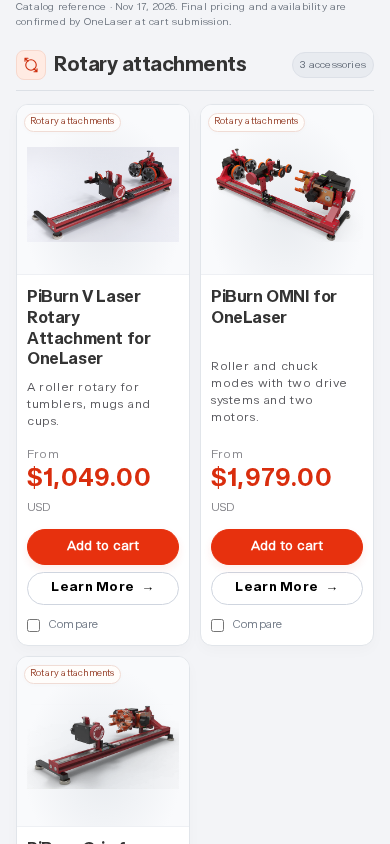
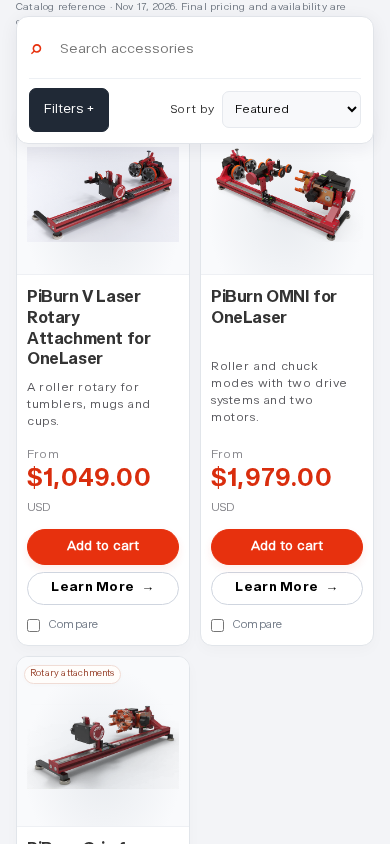
Keep accessory filters sticky within the catalog and accessible on mobile

diff --git a/accessories.html b/accessories.html
@@ -2,7 +2,7 @@
 <a class="skip" href="#machine-picker">Skip to machine selection</a><iframe class="site-chrome" data-site-shell="header" title="OneLaser website navigation" src="preview/site-header.html" scrolling="no"></iframe>
 <main>
 <section class="machine-section" id="machine-picker"><div class="wrap"><div class="section-head"><div><p class="eyebrow">ONELASER ACCESSORIES</p><h1>Your machine. <span>Your next upgrade.</span></h1><p class="picker-intro">Choose your OneLaser to explore its accessories.</p></div></div><div id="machines" class="machines" role="group" aria-label="Choose your machine"></div></div></section>
-<section class="catalog-section" id="catalog"><div class="wrap"><div class="section-head"><div><p class="eyebrow">BUILD YOUR POSSIBILITIES</p><h2 id="catalog-title">Accessories for your machine</h2></div><button id="change-machine" class="text-link">Change machine ↑</button></div><nav id="category-nav" class="category-nav" aria-label="Accessory categories"></nav><div class="toolbar"><label class="search"><span aria-hidden="true">⌕</span><input id="search" type="search" placeholder="Search accessories" aria-label="Search accessories"></label><button class="mobile-filter" id="filter-toggle" aria-expanded="false" aria-controls="filters">Filters +</button><label class="sort">Sort by <select id="sort"><option value="featured">Featured</option><option value="price-asc">Price: low to high</option><option value="price-desc">Price: high to low</option><option value="name">Name: A–Z</option></select></label></div><div class="catalog-layout"><aside id="filters"><div class="filter-heading"><strong>Refine your setup</strong><button data-reset>Reset</button></div><label class="filter-label" for="machine-select">Your machine</label><select id="machine-select"><option value="">All machines</option></select><fieldset><legend>Accessory type</legend><div id="categories"></div></fieldset><fieldset><legend>Price (USD)</legend><label for="max-price">Maximum price</label><input id="max-price" type="number" min="0" step="1" placeholder="No limit"><p class="fine" id="price-error" role="status"></p></fieldset><div class="help-card"><span>LET’S GET IT RIGHT</span><h3>Need a second opinion?</h3><p>Our team can help confirm the right part for your setup.</p><a href="https://www.1laser.com/products/sales-consultation-call#book" data-ol-booking data-product-handle="sales-consultation-call" data-loading="Opening appointment calendar…" data-error="The calendar could not load. Open the booking page to choose your time." data-fallback-label="Open booking page" data-close-label="Close appointment calendar" class="booking-cta" aria-label="Schedule a Sales Call" aria-haspopup="dialog"><svg width="18" height="18" viewBox="0 0 24 24" fill="none" stroke="currentColor" stroke-width="1.7" stroke-linecap="round" stroke-linejoin="round" aria-hidden="true"><rect x="3" y="5" width="18" height="16" rx="3"/><path d="M7 3v4m10-4v4M3 10h18m-13 5 3 3 5-5"/></svg><span class="booking-copy">Schedule a Sales Call</span></a></div></aside><div><div class="results-line"><p id="count" role="status" aria-live="polite"></p><button data-reset>Clear all filters</button></div><div id="chips" class="chips"></div><p class="snapshot-note">Catalog reference · Nov 17, 2026. Final pricing and availability are confirmed by OneLaser at cart submission.</p><div id="products" class="product-grid"></div><div id="empty" hidden><h3>No accessories match this setup.</h3><p>Try another category or remove a filter.</p><button class="button primary" data-reset>Reset filters</button></div><noscript><p>Enable JavaScript to filter this collection, or <a href="https://www.1laser.com/collections/laser-accessories">browse all accessories on OneLaser</a>.</p></noscript></div></div></div></section>
+<section class="catalog-section" id="catalog"><div class="wrap"><div class="section-head"><div><p class="eyebrow">BUILD YOUR POSSIBILITIES</p><h2 id="catalog-title">Accessories for your machine</h2></div><button id="change-machine" class="text-link">Change machine ↑</button></div><nav id="category-nav" class="category-nav" aria-label="Accessory categories"></nav><div class="toolbar"><label class="search"><span aria-hidden="true">⌕</span><input id="search" type="search" placeholder="Search accessories" aria-label="Search accessories"></label><button class="mobile-filter" id="filter-toggle" aria-expanded="false" aria-controls="filters">Filters +</button><label class="sort">Sort by <select id="sort"><option value="featured">Featured</option><option value="price-asc">Price: low to high</option><option value="price-desc">Price: high to low</option><option value="name">Name: A–Z</option></select></label></div><div class="catalog-layout"><aside id="filters" tabindex="0" aria-label="Accessory filters"><div class="filter-heading"><strong>Refine your setup</strong><button data-reset>Reset</button></div><label class="filter-label" for="machine-select">Your machine</label><select id="machine-select"><option value="">All machines</option></select><fieldset><legend>Accessory type</legend><div id="categories"></div></fieldset><fieldset><legend>Price (USD)</legend><label for="max-price">Maximum price</label><input id="max-price" type="number" min="0" step="1" placeholder="No limit"><p class="fine" id="price-error" role="status"></p></fieldset><div class="help-card"><span>LET’S GET IT RIGHT</span><h3>Need a second opinion?</h3><p>Our team can help confirm the right part for your setup.</p><a href="https://www.1laser.com/products/sales-consultation-call#book" data-ol-booking data-product-handle="sales-consultation-call" data-loading="Opening appointment calendar…" data-error="The calendar could not load. Open the booking page to choose your time." data-fallback-label="Open booking page" data-close-label="Close appointment calendar" class="booking-cta" aria-label="Schedule a Sales Call" aria-haspopup="dialog"><svg width="18" height="18" viewBox="0 0 24 24" fill="none" stroke="currentColor" stroke-width="1.7" stroke-linecap="round" stroke-linejoin="round" aria-hidden="true"><rect x="3" y="5" width="18" height="16" rx="3"/><path d="M7 3v4m10-4v4M3 10h18m-13 5 3 3 5-5"/></svg><span class="booking-copy">Schedule a Sales Call</span></a></div></aside><div><div class="results-line"><p id="count" role="status" aria-live="polite"></p><button data-reset>Clear all filters</button></div><div id="chips" class="chips"></div><p class="snapshot-note">Catalog reference · Nov 17, 2026. Final pricing and availability are confirmed by OneLaser at cart submission.</p><div id="products" class="product-grid"></div><div id="empty" hidden><h3>No accessories match this setup.</h3><p>Try another category or remove a filter.</p><button class="button primary" data-reset>Reset filters</button></div><noscript><p>Enable JavaScript to filter this collection, or <a href="https://www.1laser.com/collections/laser-accessories">browse all accessories on OneLaser</a>.</p></noscript></div></div></div></section>
 <section class="wrap guidance" aria-labelledby="accessories-faq-title"><div><p class="eyebrow">ACCESSORY ESSENTIALS</p><h2 id="accessories-faq-title">Frequently asked questions.</h2></div><div class="faqs"><details name="accessories-faq"><summary>What’s the best rotary attachment for tumblers?</summary><div class="faq-answer"><p>We recommend the PiBurn Rotary, which offers excellent stability, grip, and ease of use for drinkware engraving.</p></div></details><details name="accessories-faq"><summary>Do I need a chiller for my laser machine?</summary><div class="faq-answer"><p>If you’re using a high-wattage system like Hydra, a chiller is essential for keeping your machine cool and running efficiently.</p></div></details><details name="accessories-faq"><summary>How do I know which lens to use?</summary><div class="faq-answer"><p>A 2" focal lens works for most jobs. Use a longer lens (3"–4") for deeper cuts and a shorter lens (1.5") for fine engraving.</p></div></details><details name="accessories-faq"><summary>Can I upgrade my machine’s height for tall items?</summary><div class="faq-answer"><p>Yes! The Base Boost Riser gives you more vertical space and enables passthrough for longer items.</p></div></details><details name="accessories-faq"><summary>Is the conveyor feeder necessary?</summary><div class="faq-answer"><p>It’s a huge time-saver for businesses that handle repeat jobs or fabric, leather, and signage material.</p></div></details><details name="accessories-faq"><summary>How can I finance my laser machine?</summary><div class="faq-answer"><p>We offer financing through Shop Pay, ClickLease and more—making it easier to start or grow your business.</p></div></details></div></section>
 <section class="expert"><div class="wrap"><div><p class="eyebrow">ENGINEERS ON YOUR SIDE</p><h2>Let’s complete your setup.</h2><p>Tell us your machine and what you want to make.</p></div><a class="button" href="https://www.1laser.com/pages/contact-us">Talk to an expert →</a></div></section></main><iframe class="site-chrome" data-site-shell="footer" title="OneLaser website footer" src="preview/site-footer.html" scrolling="no"></iframe>
 <div class="compare-tray" id="compare-tray" hidden><span id="compare-count" role="status"></span><button id="open-compare" class="button primary">Compare accessories →</button><button id="clear-compare">Clear</button></div><dialog id="compare-dialog" aria-labelledby="compare-title"><div class="dialog-head"><h2 id="compare-title">Find your next upgrade</h2><button id="close-compare" aria-label="Close comparison">✕</button></div><div class="table-scroll"><table id="compare-table"></table></div><p class="fine">Comparison is a guide. Confirm exact configuration and current pricing on the product page.</p></dialog><dialog id="variant-dialog" aria-labelledby="variant-title"><div class="dialog-head"><h2 id="variant-title">Choose your configuration</h2><button type="button" id="close-variant" aria-label="Close configuration">✕</button></div><h3 id="variant-product"></h3><p id="variant-note" class="fine"></p><form id="variant-form" method="post" action="https://www.1laser.com/cart/add"><label for="variant-select">Configuration</label><select id="variant-select" name="id" required><option value="">Select a configuration</option></select><label for="cart-quantity">Quantity</label><input id="cart-quantity" name="quantity" type="number" min="1" max="99" value="1" required><input name="return_to" type="hidden" value="/cart"><p id="variant-price" role="status"></p><p class="fine">Confirm your machine, connector and required accessories before adding. You’ll continue to your OneLaser cart.</p><button class="button primary" type="submit">Add to cart →</button><a id="variant-learn" class="text-link">Learn More</a></form></dialog></body></html>

diff --git a/assets/accessories.js b/assets/accessories.js
@@ -46,7 +46,28 @@ $('#search').addEventListener('input',e=>{state.q=e.target.value;update();});$('
 $('#max-price').addEventListener('input',e=>{if(e.target.validity.badInput||Number(e.target.value)<0){$('#price-error').textContent='Enter a price of 0 or more.';return;}$('#price-error').textContent='';state.max=e.target.value;update();});
 $('#products').addEventListener('change',e=>{if(!e.target.matches('[data-compare]'))return;const i=Number(e.target.dataset.compare);if(e.target.checked&&selected.size<3)selected.add(i);else selected.delete(i);render();});
 $('#clear-compare').addEventListener('click',()=>{selected.clear();render();});
-$('#filter-toggle').addEventListener('click',()=>{const open=$('#filters').classList.toggle('open');$('#filter-toggle').setAttribute('aria-expanded',String(open));$('#filter-toggle').textContent=open?'Close filters −':'Filters +';});
+const catalog=$('#catalog'),filters=$('#filters'),toolbar=$('.toolbar');
+function closeFilters(){filters.classList.remove('open');$('#filter-toggle').setAttribute('aria-expanded','false');$('#filter-toggle').textContent='Filters +';}
+function updateStickyLayout(){
+ let top=16;
+ for(const header of document.getElementsByClassName('shopify-section-group-header-group')){
+  const style=getComputedStyle(header),rect=header.getBoundingClientRect();
+  if((style.position==='sticky'||style.position==='fixed')&&rect.bottom>0&&rect.top<=16&&rect.bottom<innerHeight-80)top=Math.max(top,Math.ceil(rect.bottom)+12);
+ }
+ catalog.style.setProperty('--ac-sticky-top',top+'px');
+ const mobile=matchMedia('(max-width:650px)').matches;
+ if(mobile){catalog.style.setProperty('--ac-mobile-filter-top',Math.max(top,Math.ceil(toolbar.getBoundingClientRect().bottom))+8+'px');if(catalog.getBoundingClientRect().bottom<=top+toolbar.offsetHeight)closeFilters();}
+ else if(filters.classList.contains('open'))closeFilters();
+}
+let stickyFrame=0;
+function queueStickyLayout(){if(!stickyFrame)stickyFrame=requestAnimationFrame(()=>{stickyFrame=0;updateStickyLayout();});}
+window.addEventListener('scroll',queueStickyLayout,{passive:true});window.addEventListener('resize',queueStickyLayout);window.addEventListener('pageshow',queueStickyLayout);
+new ResizeObserver(queueStickyLayout).observe(toolbar);
+for(const header of document.getElementsByClassName('shopify-section-group-header-group')){new ResizeObserver(queueStickyLayout).observe(header);header.addEventListener('transitionend',queueStickyLayout);}
+updateStickyLayout();
+$('#filter-toggle').addEventListener('click',()=>{updateStickyLayout();const open=filters.classList.toggle('open');$('#filter-toggle').setAttribute('aria-expanded',String(open));$('#filter-toggle').textContent=open?'Close filters −':'Filters +';});
+document.addEventListener('keydown',e=>{if(e.key==='Escape'&&filters.classList.contains('open')){closeFilters();$('#filter-toggle').focus();}});
+document.addEventListener('click',e=>{if(matchMedia('(max-width:650px)').matches&&filters.classList.contains('open')&&!filters.contains(e.target)&&!$('#filter-toggle').contains(e.target))closeFilters();});
 $('#open-compare').addEventListener('click',()=>{const ps=[...selected].map(i=>products[i]);const rows=[['Purpose',p=>escape(p.category)],['Price (USD)',p=>money(p.price)],['Machine family candidates',p=>escape(p.machines.join(', ')||'Confirm with OneLaser')],['What it does',p=>escape(p.description)],['Before you order',p=>escape(p.note)],['Next step',p=>`<a class="text-link" href="${escape(p.url)}">Check product details →</a>`]];$('#compare-table').innerHTML=`<caption class="fine">Compare ${ps.length} selected accessories</caption><thead><tr><th scope="col">Accessory</th>${ps.map(p=>`<th scope="col"><img src="${escape(p.image)}" alt="" width="110" height="90"><br>${escape(p.title)}</th>`).join('')}</tr></thead><tbody>${rows.map(([title,fn])=>`<tr class="${title==='Price (USD)'?'compare-price-row':''}"><th scope="row">${title}</th>${ps.map(p=>`<td>${fn(p)}</td>`).join('')}</tr>`).join('')}</tbody>`;$('#compare-dialog').showModal();});
 $('#change-machine').addEventListener('click',()=>{$('#machine-picker').scrollIntoView();$('#machines button').focus({preventScroll:true});});
 $('#close-variant').addEventListener('click',()=>$('#variant-dialog').close());

diff --git a/assets/ac-theme.js b/assets/ac-theme.js
@@ -47,7 +47,28 @@ $('#search').addEventListener('input',e=>{state.q=e.target.value;update();});$('
 $('#max-price').addEventListener('input',e=>{if(e.target.validity.badInput||Number(e.target.value)<0){$('#price-error').textContent='Enter a price of 0 or more.';return;}$('#price-error').textContent='';state.max=e.target.value;update();});
 $('#products').addEventListener('change',e=>{if(!e.target.matches('[data-compare]'))return;const i=Number(e.target.dataset.compare);if(e.target.checked&&selected.size<3)selected.add(i);else selected.delete(i);render();});
 $('#clear-compare').addEventListener('click',()=>{selected.clear();render();});
-$('#filter-toggle').addEventListener('click',()=>{const open=$('#filters').classList.toggle('open');$('#filter-toggle').setAttribute('aria-expanded',String(open));$('#filter-toggle').textContent=open?'Close filters −':'Filters +';});
+const catalog=$('#catalog'),filters=$('#filters'),toolbar=$('.toolbar');
+function closeFilters(){filters.classList.remove('open');$('#filter-toggle').setAttribute('aria-expanded','false');$('#filter-toggle').textContent='Filters +';}
+function updateStickyLayout(){
+ let top=16;
+ for(const header of document.getElementsByClassName('shopify-section-group-header-group')){
+  const style=getComputedStyle(header),rect=header.getBoundingClientRect();
+  if((style.position==='sticky'||style.position==='fixed')&&rect.bottom>0&&rect.top<=16&&rect.bottom<innerHeight-80)top=Math.max(top,Math.ceil(rect.bottom)+12);
+ }
+ catalog.style.setProperty('--ac-sticky-top',top+'px');
+ const mobile=matchMedia('(max-width:650px)').matches;
+ if(mobile){catalog.style.setProperty('--ac-mobile-filter-top',Math.max(top,Math.ceil(toolbar.getBoundingClientRect().bottom))+8+'px');if(catalog.getBoundingClientRect().bottom<=top+toolbar.offsetHeight)closeFilters();}
+ else if(filters.classList.contains('open'))closeFilters();
+}
+let stickyFrame=0;
+function queueStickyLayout(){if(!stickyFrame)stickyFrame=requestAnimationFrame(()=>{stickyFrame=0;updateStickyLayout();});}
+window.addEventListener('scroll',queueStickyLayout,{passive:true});window.addEventListener('resize',queueStickyLayout);window.addEventListener('pageshow',queueStickyLayout);
+new ResizeObserver(queueStickyLayout).observe(toolbar);
+for(const header of document.getElementsByClassName('shopify-section-group-header-group')){new ResizeObserver(queueStickyLayout).observe(header);header.addEventListener('transitionend',queueStickyLayout);}
+updateStickyLayout();
+$('#filter-toggle').addEventListener('click',()=>{updateStickyLayout();const open=filters.classList.toggle('open');$('#filter-toggle').setAttribute('aria-expanded',String(open));$('#filter-toggle').textContent=open?'Close filters −':'Filters +';});
+root.addEventListener('keydown',e=>{if(e.key==='Escape'&&filters.classList.contains('open')){closeFilters();$('#filter-toggle').focus();}});
+root.addEventListener('click',e=>{if(matchMedia('(max-width:650px)').matches&&filters.classList.contains('open')&&!filters.contains(e.target)&&!$('#filter-toggle').contains(e.target))closeFilters();});
 $('#open-compare').addEventListener('click',()=>{const ps=[...selected].map(i=>products[i]);const rows=[['Purpose',p=>escape(p.category)],['Price (USD)',p=>money(p.price)],['Machine family candidates',p=>escape(p.machines.join(', ')||'Confirm with OneLaser')],['What it does',p=>escape(p.description)],['Before you order',p=>escape(p.note)],['Next step',p=>`<a class="text-link" href="${escape(p.url)}">Check product details →</a>`]];$('#compare-table').innerHTML=`<caption class="fine">Compare ${ps.length} selected accessories</caption><thead><tr><th scope="col">Accessory</th>${ps.map(p=>`<th scope="col"><img src="${escape(p.image)}" alt="" width="110" height="90"><br>${escape(p.title)}</th>`).join('')}</tr></thead><tbody>${rows.map(([title,fn])=>`<tr class="${title==='Price (USD)'?'compare-price-row':''}"><th scope="row">${title}</th>${ps.map(p=>`<td>${fn(p)}</td>`).join('')}</tr>`).join('')}</tbody>`;$('#compare-dialog').showModal();});
 $('#change-machine').addEventListener('click',()=>{$('#machine-picker').scrollIntoView();$('#machines button').focus({preventScroll:true});});
 $('#close-variant').addEventListener('click',()=>$('#variant-dialog').close());

diff --git a/assets/ac-theme.css b/assets/ac-theme.css
@@ -23,6 +23,7 @@
 .category-heading>.category-icon{color:#cd2d0c;font-size:inherit}
 
 .product-bottom{margin-top:auto;padding-top:4px}
+.catalog-section{--ac-sticky-top:16px;--ac-mobile-filter-top:150px}.catalog-layout{position:relative;align-items:start}#filters{position:sticky;top:var(--ac-sticky-top);max-height:calc(100vh - var(--ac-sticky-top) - 16px);max-height:calc(100dvh - var(--ac-sticky-top) - 16px);overflow-y:auto;overscroll-behavior-y:contain;scrollbar-width:thin;scrollbar-color:#c7ccd4 transparent;scrollbar-gutter:stable;z-index:2}@media(max-width:650px){.catalog-section .toolbar{position:sticky;top:var(--ac-sticky-top);z-index:7;box-shadow:0 4px 18px #17223512}#filters{position:static;max-height:none;overflow:visible;scrollbar-gutter:auto}#filters.open{position:fixed;top:var(--ac-mobile-filter-top);left:16px;right:16px;width:auto;max-height:calc(100vh - var(--ac-mobile-filter-top) - 16px);max-height:calc(100dvh - var(--ac-mobile-filter-top) - 16px);overflow-y:auto;overscroll-behavior-y:contain;scrollbar-gutter:stable;z-index:8;box-shadow:0 12px 38px #17223530}}
 
 @font-face{font-family:Certia;src:url('certia-regular.woff2') format('woff2');font-weight:400;font-style:normal;font-display:swap}
 @font-face{font-family:Certia-Bold;src:url('certia-bold.woff2') format('woff2');font-weight:400;font-style:normal;font-display:swap}

diff --git a/assets/accessories-brand.css b/assets/accessories-brand.css
@@ -12,3 +12,4 @@ body{background:#fff}.announcement{background:var(--night);font-size:11px;paddin
 .category-heading>.category-icon{color:#cd2d0c;font-size:inherit}
 
 .product-bottom{margin-top:auto;padding-top:4px}
+.catalog-section{--ac-sticky-top:16px;--ac-mobile-filter-top:150px}.catalog-layout{position:relative;align-items:start}#filters{position:sticky;top:var(--ac-sticky-top);max-height:calc(100vh - var(--ac-sticky-top) - 16px);max-height:calc(100dvh - var(--ac-sticky-top) - 16px);overflow-y:auto;overscroll-behavior-y:contain;scrollbar-width:thin;scrollbar-color:#c7ccd4 transparent;scrollbar-gutter:stable;z-index:2}@media(max-width:650px){.catalog-section .toolbar{position:sticky;top:var(--ac-sticky-top);z-index:7;box-shadow:0 4px 18px #17223512}#filters{position:static;max-height:none;overflow:visible;scrollbar-gutter:auto}#filters.open{position:fixed;top:var(--ac-mobile-filter-top);left:16px;right:16px;width:auto;max-height:calc(100vh - var(--ac-mobile-filter-top) - 16px);max-height:calc(100dvh - var(--ac-mobile-filter-top) - 16px);overflow-y:auto;overscroll-behavior-y:contain;scrollbar-gutter:stable;z-index:8;box-shadow:0 12px 38px #17223530}}

diff --git a/docs/accessories-design-requirements.zh-CN.md b/docs/accessories-design-requirements.zh-CN.md
@@ -128,3 +128,5 @@
 侧栏预约入口改为橙红实心按钮，配日历图标及白色文字；窄侧栏允许按钮文案自然分成两行，避免单独箭头折行。保留顶部同一预约链接和原生预约处理属性。
 
 FAQ 内容替换：采用官网配件集合页当前的 ACCESSORY ESSENTIALS / Frequently asked questions. 以及全部六组问答（旋转附件、水冷、镜头、增高底座、送料、分期付款）。问答原文保持一致，来源与采集记录见 accessories-faq-source.json。视觉沿用本页 Certia 字体、橙红小标题、浅灰圆角容器、细分隔线；使用原生 details/summary 和同名分组实现单项展开。原有四组自编问答及左侧引导文案已移除。
+
+目录滚动体验：筛选栏与商品列表共用 catalog-layout 容器。桌面筛选栏使用 position: sticky，只在目录范围内吸顶，到 FAQ 自动结束；高度不超过当前视口，过长内容内部滚动，保留底部预约按钮。主题版自动为可见的公共吸顶导航预留顶部间距。手机吸顶搜索/筛选工具栏，点击 Filters 在其下方展开可内部滚动的非模态筛选面板，支持关闭按钮、Esc、点击面板外关闭；滚动离开目录时自动收起。
